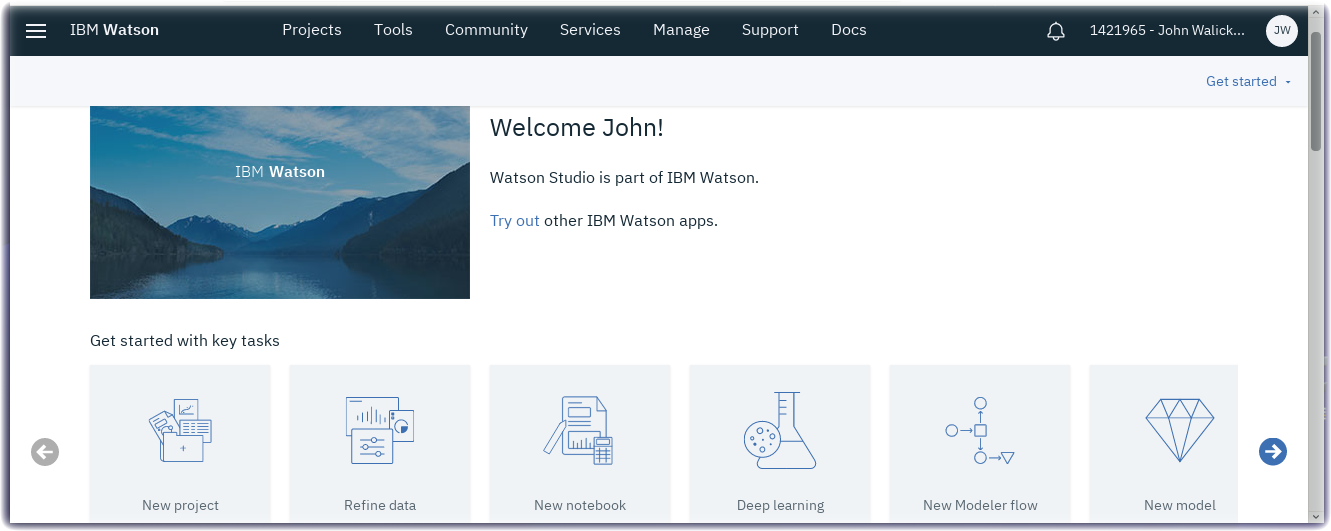
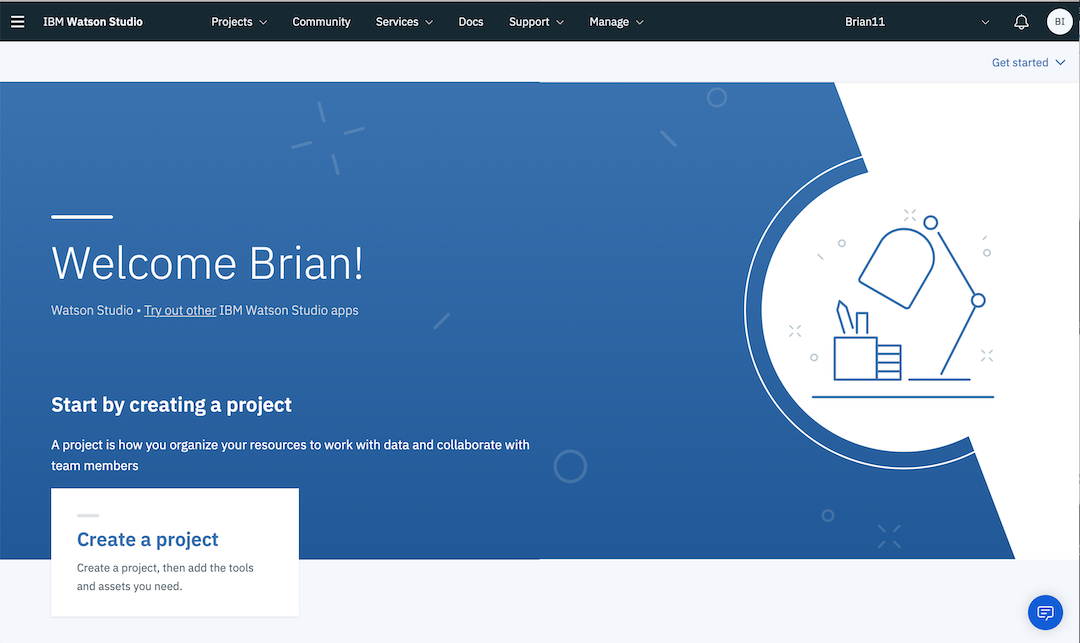
Updated Studio page

diff --git a/en/part4/STUDIO.md b/en/part4/STUDIO.md
@@ -22,17 +22,7 @@ Watson Studio accelerates the machine and deep learning workflows required to in
 
 ### Step 1 - Watson Studio Setup
 
-#### Create **Cloud Object Storage**
-
-- Create a Cloud Object Storage instance by visiting the [IBM Cloud Catalog](https://console.bluemix.net/catalog/?search=object)
-- Search on **Object** in the IBM Cloud Catalog
-- Click on the **Object Storage** service tile
-
-![Cloud Object Storage Catalog screenshot](screenshots/CloudObjectStorage-Catalog.png)
-
-- Click on the **Create** button
-
-![Cloud Object Storage Catalog screenshot](screenshots/CloudObjectStorage-Service.png)
+Watson Studio needs a data store to enable it to work and it uses the Cloud Object Storage service, so you need an instance of that service available.  On a lite account you can only have a single instance of this service deployed, so if you already have an Object Storage service deployed then you will need to use that, otherwise you can deploy one when you create your notebook.
 
 #### Create a Watson Studio service instance
 
@@ -46,12 +36,11 @@ Watson Studio accelerates the machine and deep learning workflows required to in
 ![Watson Studio Service screenshot](screenshots/WatsonStudio-Service.png)
 
 - Click on the **Create** button
-- After the Watson Studio service is created, click on **Get Started** or visit Watson Studio at <http://dataplatform.ibm.com>
+- After the Watson Studio service is created, click on **Get Started**
 
 ![Watson Studio Launch screenshot](screenshots/WatsonStudio-Launch.png)
 
-- Login with your IBM Cloud account
-- Walk through the introductory tutorial to learn about Watson Studio
+- Optionally, walk through the introductory tutorial to learn about Watson Studio
 
 ![Watson Studio Welcome screenshot](screenshots/WatsonStudio-Welcome.png)
 
@@ -61,74 +50,34 @@ Projects are your workspace to organize your resources, such as assets like data
 
 #### Create a New Project
 
-- Click on **New project**
-- Select the **Complete** tile and press the **OK** button
+- Click on **Create a project**
+- Select the **Standard** tile and press the **Create Project** button
 
 ![Watson Studio New project screenshot](screenshots/WatsonStudio-NewProject-Tiles.png)
 
 - Give your Project a name : **IoT Sensor Analytics**
-- The Cloud Object Storage instance created in Step 1 should be prefilled
-- Press the **Create** button
-
+- If you already have a Cloud Object Storage instance then it should be selected
+  
 ![Watson Studio New project screenshot](screenshots/WatsonStudio-NewProject.png)
 
-#### Add an Apache Spark Service
+- if you don't have a Cloud Object Storage instance, then press the **Add** button to create one.  Ensure the Lite plan is selected then select **Create** then **Confirm** to create the instance.  Press the **Refresh** button to get the Cloud Storage instance to show up as the selected storage for your new Watson Studio project.
 
-First add an Apache Spark service to the project.
+![Watson Studio New project screenshot](screenshots/WatsonStudio-AddStorage.png)
 
-- Press the **Settings** tab
-
-![Watson Studio Project Settings screenshot](screenshots/WatsonStudio-ProjectSettings.png)
-
-- Scroll down to the **Associated services** section and click on the **Add service** dropdown
-- Select **Spark** from the dropdown
-
-![Watson Studio Project Add Spark Service screenshot](screenshots/WatsonStudio-Project-AddSparkService.png)
-
-- In the **Apache Spark** service panel, select the **Lite** plan and press the **Create** button. Press the **Confirm** button.
-
-![Watson Studio Project Settings screenshot](screenshots/WatsonStudio-Apache-Spark-Service.png)
-
-- Now an Apache Spark service has been added to your Project
+- Press the **Create** button to create the New Watson Studio project
 
 ### Step 3 - Create a Notebook
 
-- From the top menu, select **Tools**, and then **Notebook**
-- Select **From URL**
+- From the top menu, select **Add to project**, and then **Notebook**
+- Select **Blank**
 - Give the notebook a name : **IoT Sensor Analytics**
-- In the **Notebook URL** field, paste the following URL: <https://raw.githubusercontent.com/binnes/esp8266Workshop/master/en/part4/notebooks/ESP8266-DHT-IoT-Sensor-Analytics.ipynb>
-
-- Scroll down to the **Select runtime** dropdown and choose your **Spark** runtime
+- Scroll down to the **Select runtime** dropdown and choose **Default Spark Python 3.5 XS (Driver with 1 vCPU and 4 GB RAM, 2 executors with 1 vCPU and 4 GB RAM each** runtime
 
 ![Watson Studio New notebook screenshot](screenshots/WatsonStudio-NewNotebook.png)
 
 - Click on **Create Notebook**
 
 ![Watson Studio New notebook screenshot](screenshots/WatsonStudio-NewNotebook-install.png)
-
-- Before running this notebook, an additional connector notebook needs to be installed.
-
-## Step 4 - Create an Apache Bahir Connector Notebook
-
-This will install the Apache Bahir connector within your Project/Apache Spark service. If you restart the kernel or start a new notebook in the same project you can use Apache Bahir for connecting to the Cloudant/Apache CouchDB service.
-
-- From the top menu, select **Tools**, and then **Notebook**
-- Select **From URL**
-- Give the notebook a name: **Apache Bahir**
-- In the **Notebook URL** field, paste the following URL: <https://raw.githubusercontent.com/romeokienzler/developerWorks/master/coursera/bahir_setup.ipynb>
-- Scroll down to the **Select runtime** dropdown and choose your **Spark** runtime
-- Click on **Create Notebook**
-
-#### Apache Bahir Connector Initialization
-
-- Once the Apache Bahir notebook loads, click on the **Kernel** menu and select **Restart & Run All** button
-- Do this **Restart & Run All** step **twice** to complete the package installs
-
-  ![Watson Studio Apache Bahir notebook run screenshot](screenshots/WatsonStudio-Notebook-ApacheBahir.png)
-
-- The packages are successfully installed when the cell reports "Package already installed" messages
-
-  ![Watson Studio Apache Bahir notebook run screenshot](screenshots/WatsonStudio-Notebook-ApacheBahir-complete.png)
 
 You are now ready to analyse the IoT sensor historical dataset using a Jupyter notebook and Spark.  Proceed to the next [Jupyter Notebook section](JUPYTER.md).
 
